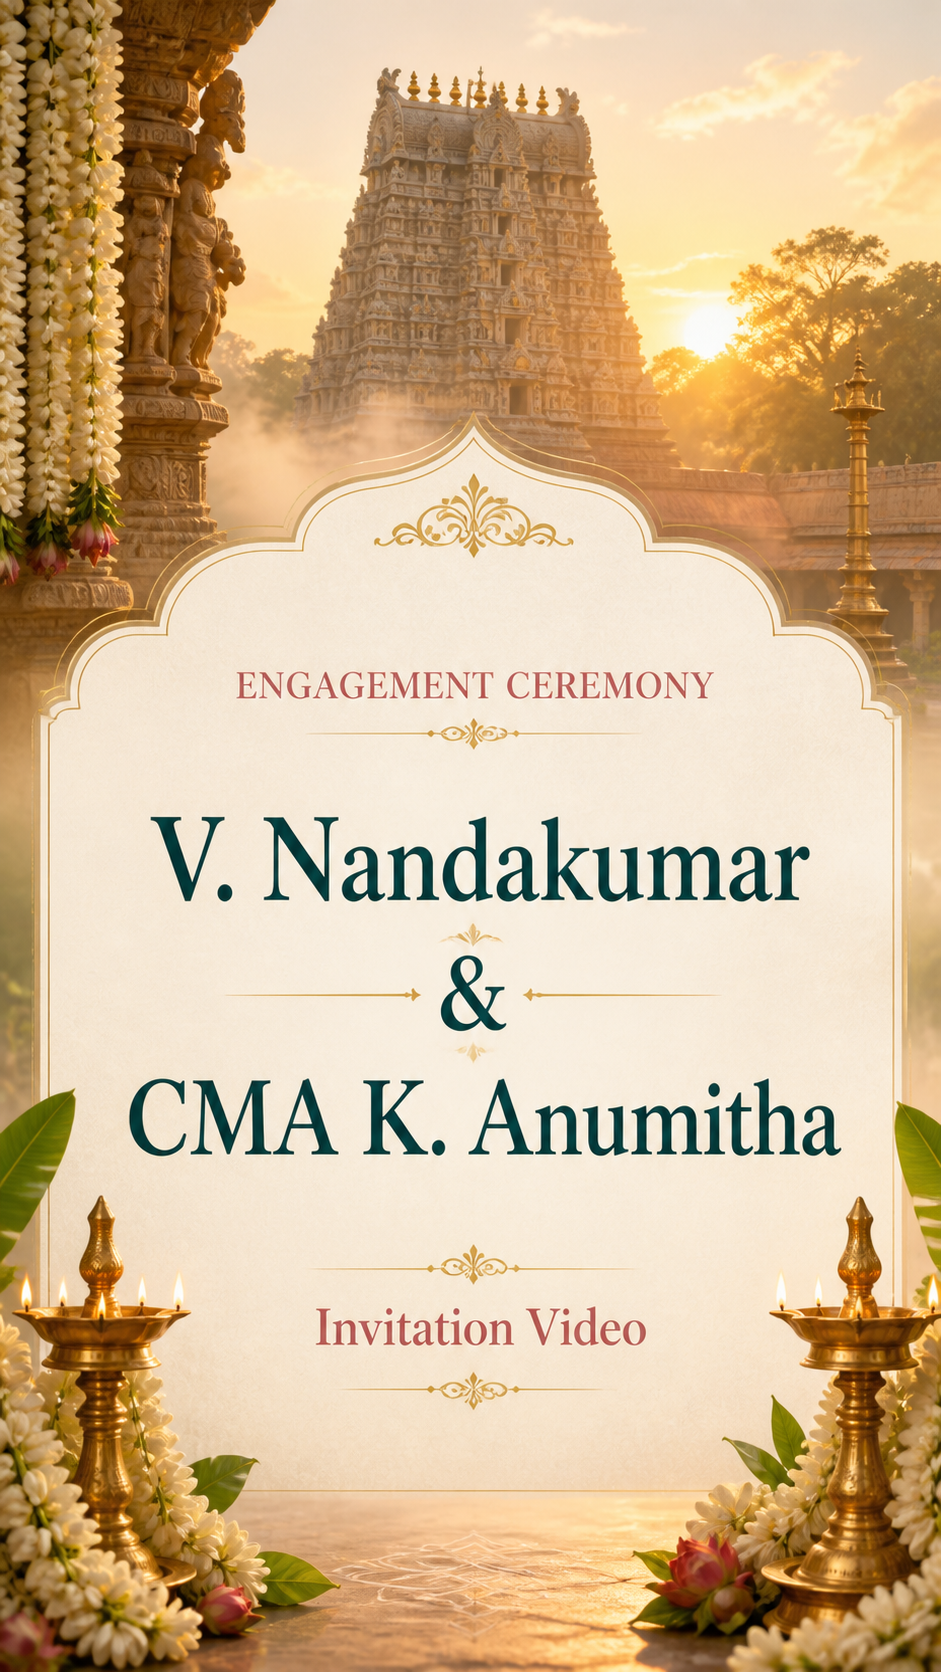
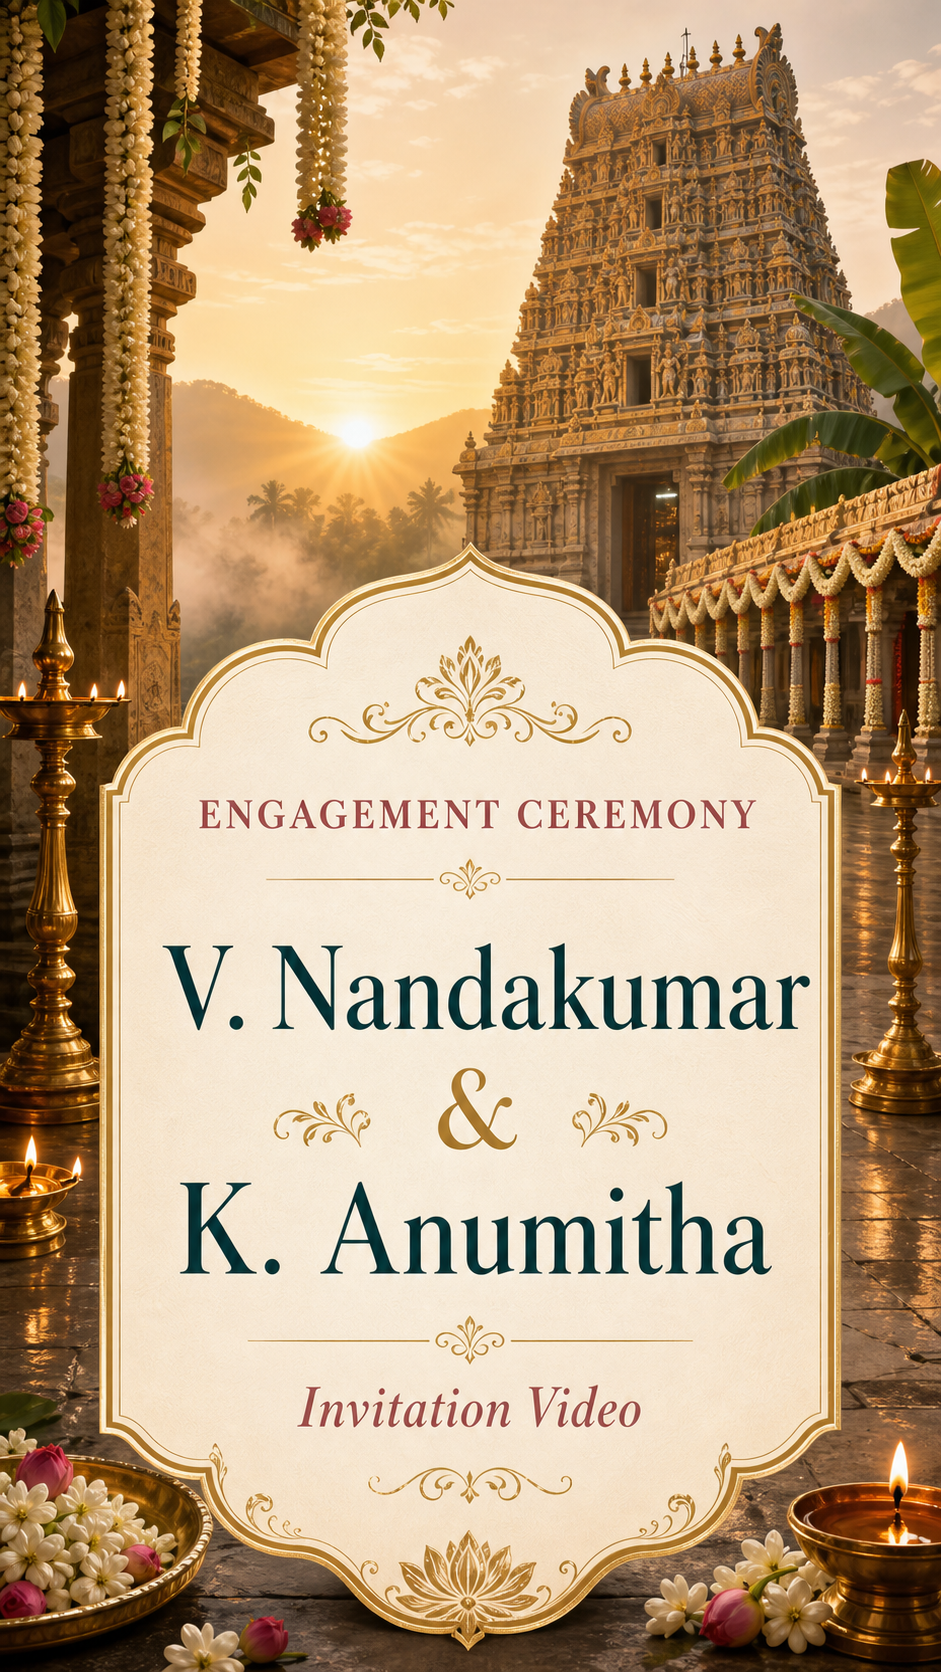
Update invitation names and poem styling

diff --git a/index.html b/index.html
@@ -39,13 +39,19 @@
           <h1 class="coupleTitle">
             <span><strong>V. Nandakumar</strong></span>
             <em>&</em>
-            <span><strong>CMA K. Anumitha</strong></span>
+            <span><strong>K. Anumitha</strong></span>
           </h1>
           <p class="intro">
             With the blessings of our families, we invite you to bless the
             beginning of their forever on 23.08.2026 at <span class="nowrap">10:30 AM.</span>
           </p>
-          <p class="tamilLine">உங்கள் வருகையால் எங்கள் நாள் இன்னும் அழகாகும்</p>
+          <p class="tamilLine tamilPoem">
+            <span>விதி எழுதிய வரிகளை,</span>
+            <span>காதல் அழகாக வாசித்தது...</span>
+            <span>இன்று இரு இதயங்கள்,</span>
+            <span>ஒரு வாழ்வாக இணைந்து தொடங்கும் நாள்.</span>
+            <strong>அனு ❤ நந்து</strong>
+          </p>
           <div class="heroActions" aria-label="Invitation actions">
             <a class="primaryButton" href="#details">View Details</a>
             <a
@@ -102,7 +108,7 @@
           </div>
           <a
             class="calendarButton"
-            href="https://calendar.google.com/calendar/render?action=TEMPLATE&text=V.%20Nandakumar%20%26%20CMA%20K.%20Anumitha%20Engagement%20Ceremony&dates=20260823T050000Z/20260823T080000Z&details=Engagement%20ceremony%20of%20V.%20Nandakumar%20%26%20CMA%20K.%20Anumitha.%20Venue%3A%20Prem%20Mahal%2C%201st%20Main%20Road%2C%20MMDA%2C%20TNHB%20Layout%2C%20Mathur%2C%20Tamil%20Nadu&location=Prem%20Mahal%2C%201st%20Main%20Road%2C%20MMDA%2C%20TNHB%20Layout%2C%20Mathur%2C%20Tamil%20Nadu"
+            href="https://calendar.google.com/calendar/render?action=TEMPLATE&text=V.%20Nandakumar%20%26%20K.%20Anumitha%20Engagement%20Ceremony&dates=20260823T050000Z/20260823T080000Z&details=Engagement%20ceremony%20of%20V.%20Nandakumar%20%26%20K.%20Anumitha.%20Venue%3A%20Prem%20Mahal%2C%201st%20Main%20Road%2C%20MMDA%2C%20TNHB%20Layout%2C%20Mathur%2C%20Tamil%20Nadu&location=Prem%20Mahal%2C%201st%20Main%20Road%2C%20MMDA%2C%20TNHB%20Layout%2C%20Mathur%2C%20Tamil%20Nadu"
           >
             Add to Calendar
           </a>

diff --git a/script.js b/script.js
@@ -25,7 +25,7 @@ const audioNotice = document.getElementById("audioNotice");
 const videoFrame = document.getElementById("videoFrame");
 const videoDots = Array.from(document.querySelectorAll("[data-video-index]"));
 const shareText = encodeURIComponent(
-  `You are warmly invited to V. Nandakumar & CMA K. Anumitha's engagement on 23.08.2026 at 10:30 AM, Prem Mahal. ${window.location.href}`
+  `You are warmly invited to V. Nandakumar & K. Anumitha's engagement on 23.08.2026 at 10:30 AM, Prem Mahal. ${window.location.href}`
 );
 const mapShareText = encodeURIComponent(
   "Venue location: Prem Mahal, 1st Main Road, MMDA, TNHB Layout, Mathur, Tamil Nadu. Map: https://www.google.com/maps/search/?api=1&query=Prem%20Mahal%2C%201st%20Main%20Road%2C%20MMDA%2C%20TNHB%20Layout%2C%20Mathur%2C%20Tamil%20Nadu"

diff --git a/styles.css b/styles.css
@@ -200,6 +200,28 @@ h1 {
   margin: 18px 0 0;
 }
 
+.tamilPoem {
+  display: grid;
+  gap: 3px;
+  padding-left: 18px;
+  border-left: 3px solid rgba(185, 135, 53, 0.68);
+  font-size: clamp(1rem, 1.8vw, 1.16rem);
+  line-height: 1.62;
+}
+
+.tamilPoem span {
+  display: block;
+}
+
+.tamilPoem strong {
+  display: block;
+  margin-top: 8px;
+  color: var(--teal);
+  font-family: Georgia, "Times New Roman", serif;
+  font-size: 1.18em;
+  font-weight: 700;
+}
+
 .heroActions,
 .footerActions {
   display: flex;
